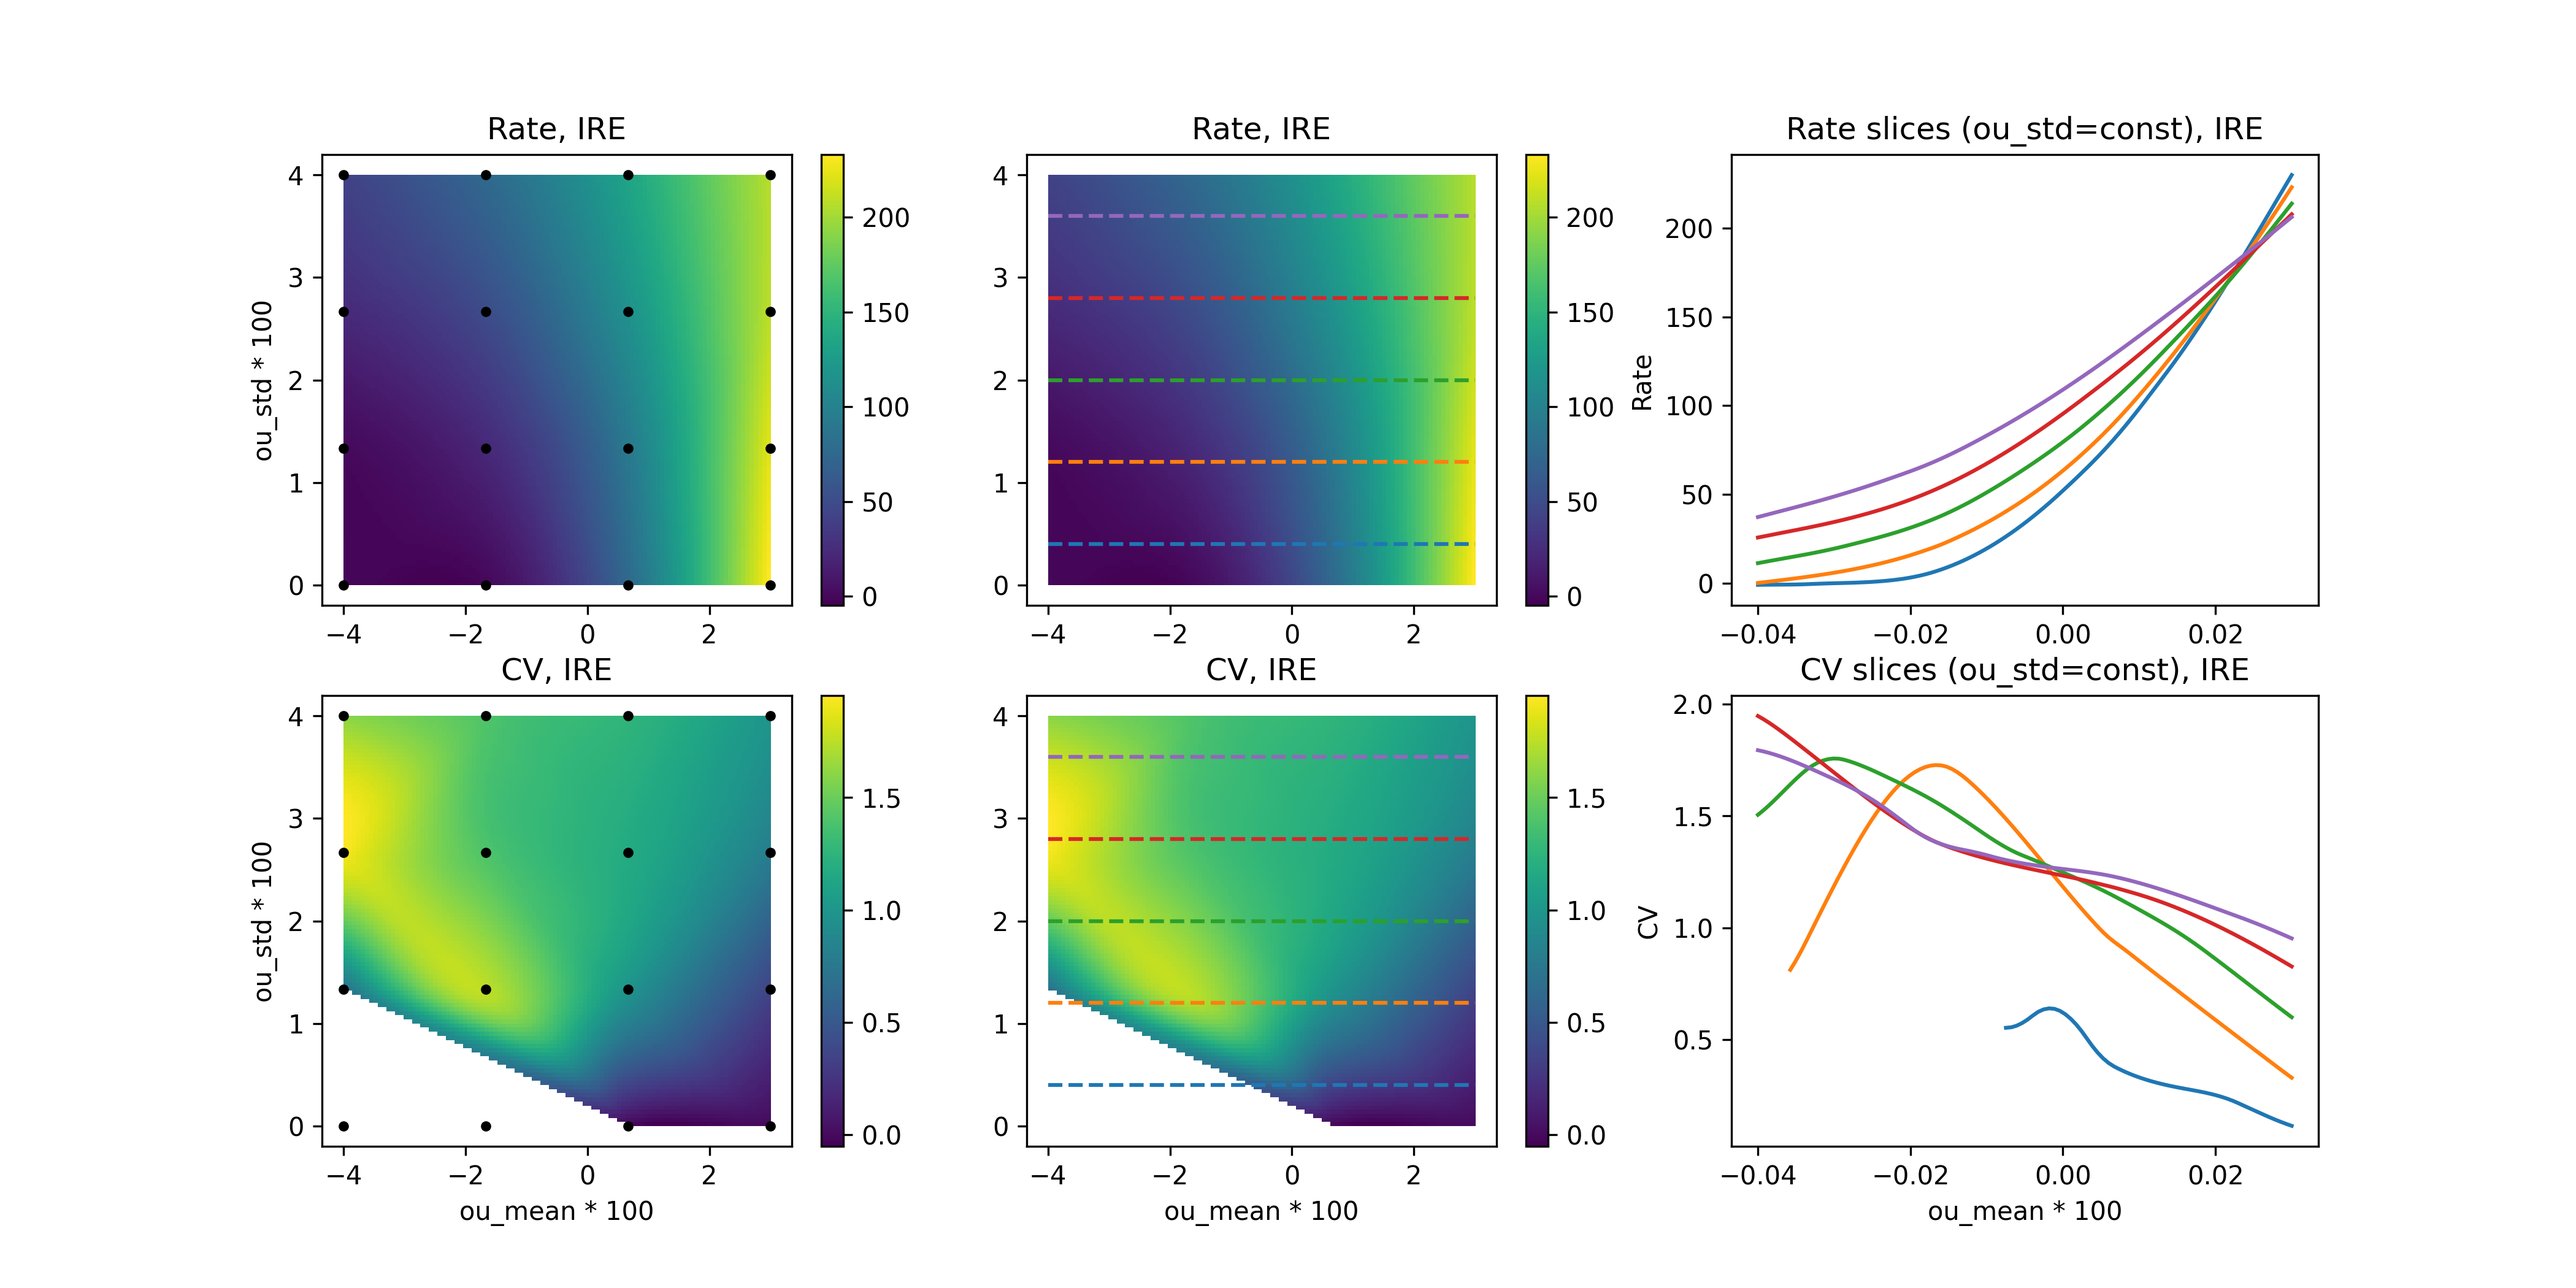
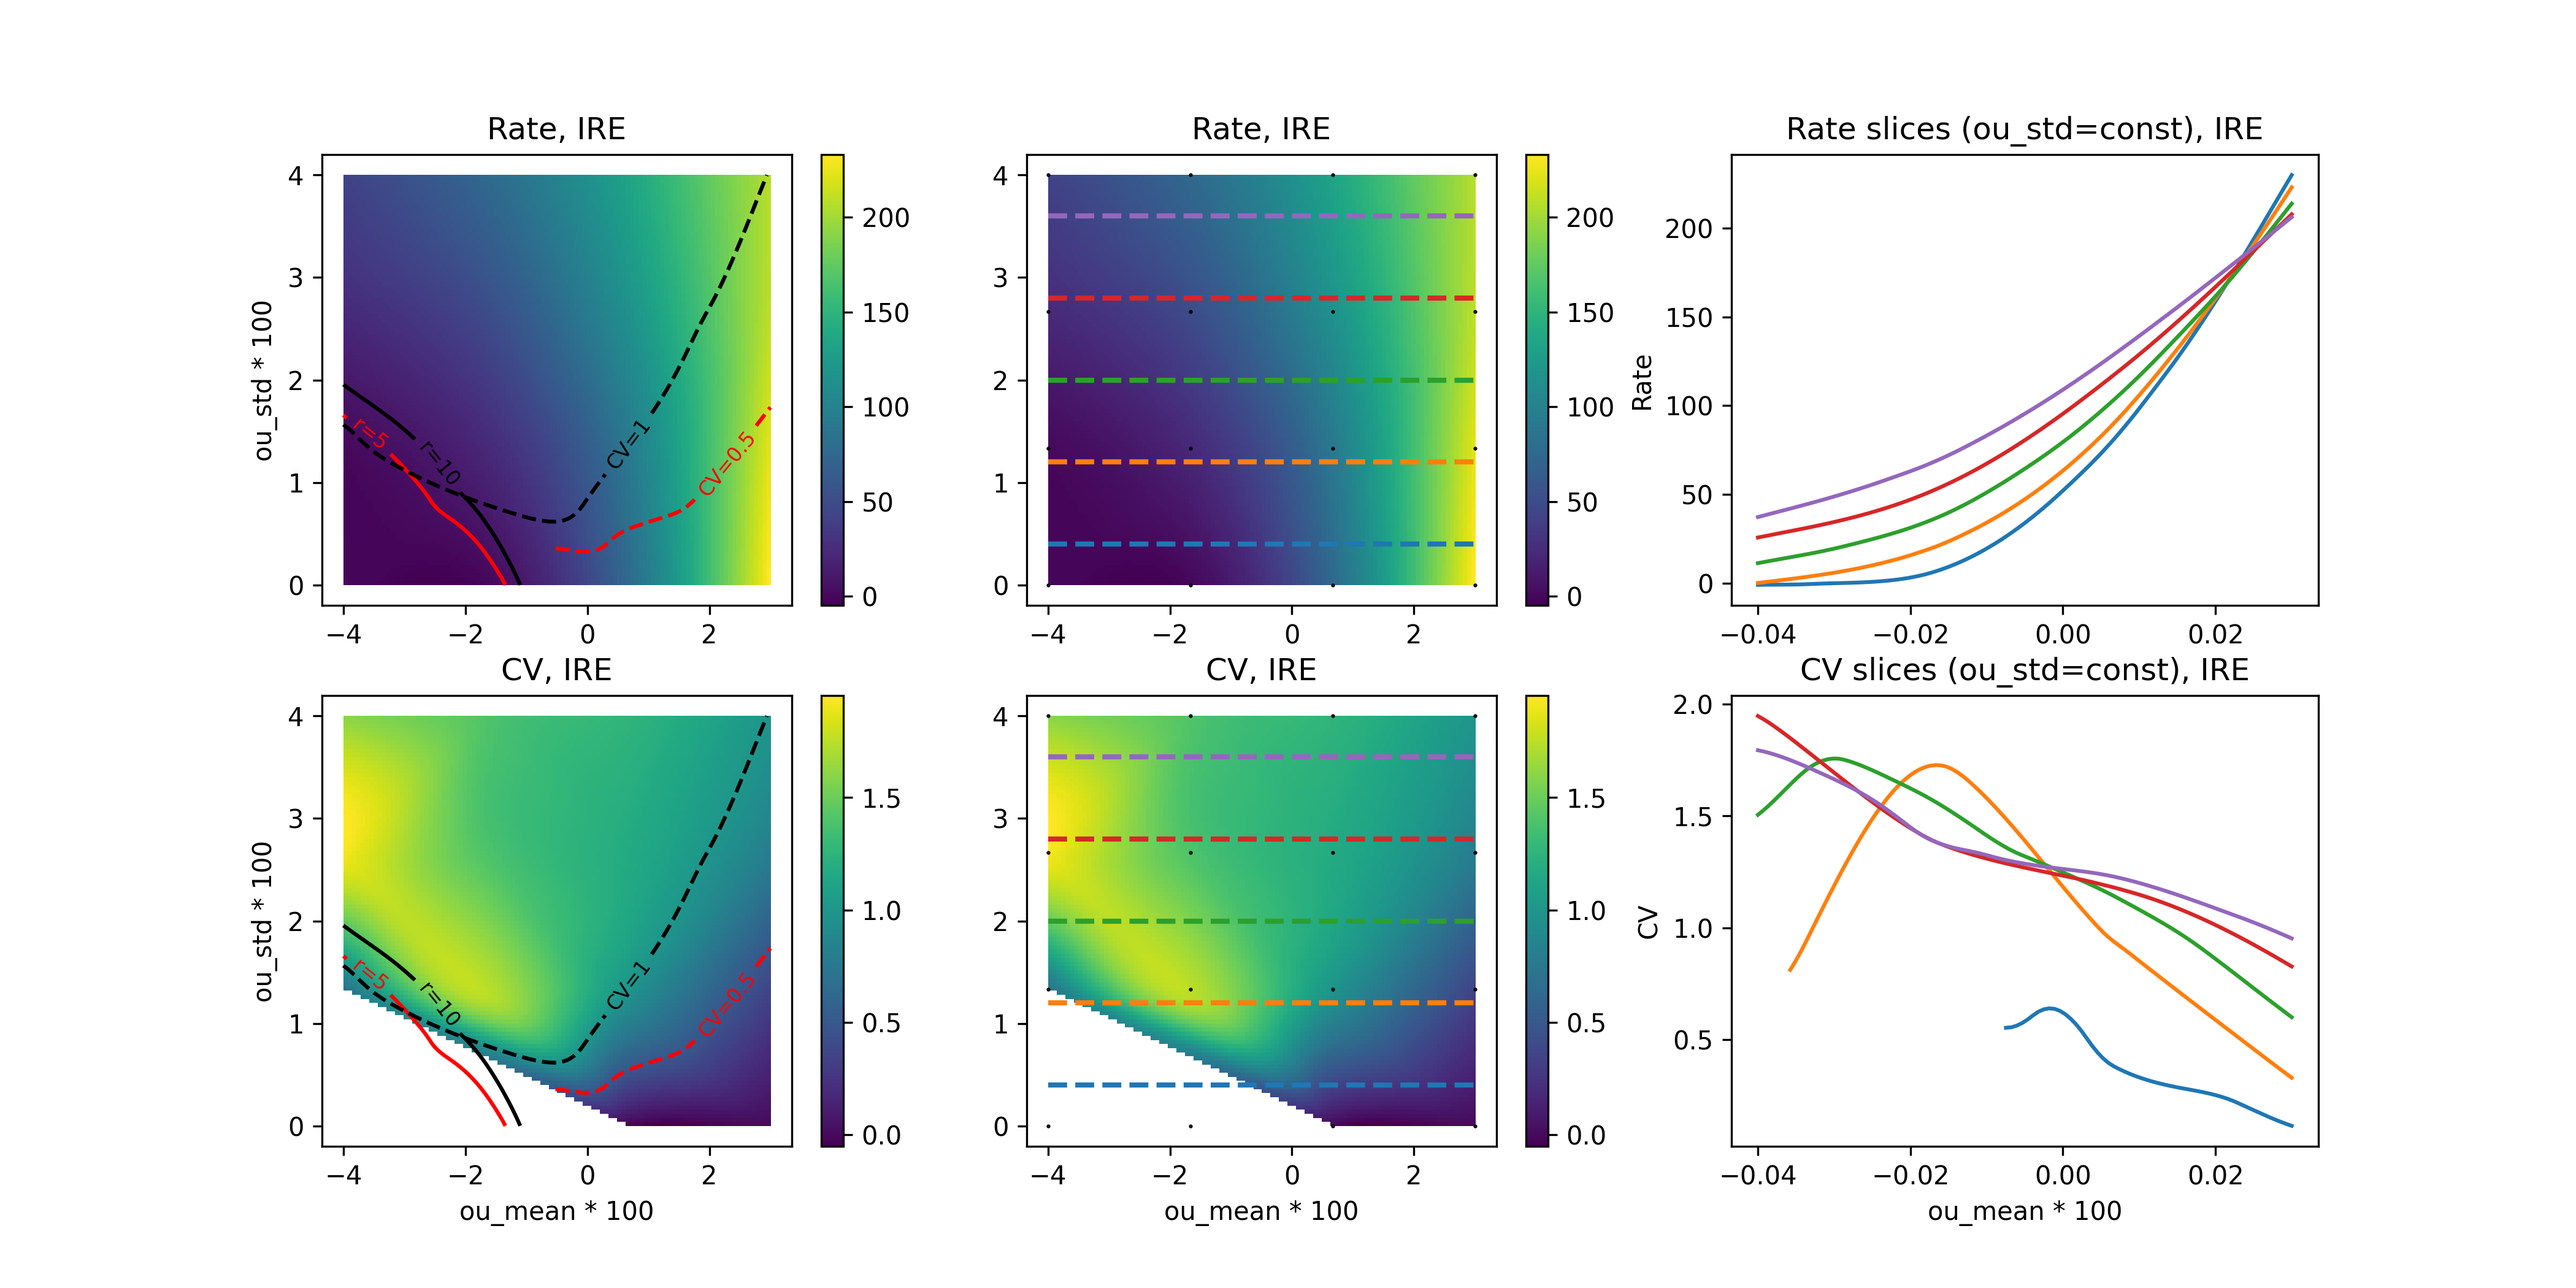
Implement plotting of voltage metric matrices

diff --git a/analysis/ou_tuning/plot_voltage_metrics_grid.py b/analysis/ou_tuning/plot_voltage_metrics_grid.py
@@ -1,25 +1,26 @@
 import os
 from pathlib import Path
+from typing import List, Tuple
 
 import matplotlib.pyplot as plt
 import numpy as np
 
-from read_batch_res_table import read_batch_res_table
+from read_batch_voltages_table import read_batch_voltages_table
 from xr_utils import interpolate_to_xr, plot_xr, plot_xr_contour
 
 
-def plot_rate_cv_grid(
+def plot_voltage_metrics_grid(
         dirpath_exp: str | Path,
+        metrics_vis: List[str | Tuple[str, callable]],
         npoints: int = 100,   # grid resolution
         nslices: int = 5,   # num. ou_std==const slices to plot
         show_grid: bool = True,
-        show_r_cv_contours: bool = False,
-        dirname_out: str = 'plots'
+        dirname_out: str = 'plots_voltage'
         ) -> None:
 
     # Read and parse batch result table
-    fpath_in = dirpath_exp / 'batch_result.csv'
-    ou_mean, ou_std, data = read_batch_res_table(fpath_in)
+    fpath_in = dirpath_exp / 'batch_voltages.csv'
+    ou_mean, ou_std, data = read_batch_voltages_table(fpath_in)
     data_coords = list(zip(ou_mean, ou_std))
     pop_names = list(data.keys())
 
@@ -31,10 +32,22 @@ def plot_rate_cv_grid(
     data_interp = {}
     for pop in pop_names:
         data_interp[pop] = {}
-        for data_type in ('Rate', 'CV'):
+        for data_type in metrics_vis:
+            
+            if isinstance(data_type, tuple):
+                # If data_type is a function, apply it to the data
+                if not callable(data_type[1]):
+                    raise ValueError(f'Expected a callable for {data_type[1]}')
+                data_values = data_type[1](data[pop])
+                data_type_title = data_type[0]
+            else:
+                # Otherwise, treat it as a column name
+                data_values = data[pop][data_type]
+                data_type_title = data_type
+
             data_interp[pop][data_type] = interpolate_to_xr(
                 data_coords,
-                data[pop][data_type],
+                data_values,
                 ou_mean_range, ou_std_range,
                 nx=npoints, ny=npoints,
                 coord_names=('ou_mean', 'ou_std')
@@ -54,33 +67,27 @@ def plot_rate_cv_grid(
     margin = 0.05
 
     nx = 3
-    ny = 2
+    ny = len(metrics_vis)
 
     def plot_pop_data(pop: str):
 
-        for n, data_type in enumerate(['Rate', 'CV']):
+        for n, data_type in enumerate(metrics_vis):
             Z = data_interp[pop][data_type]
+
+            if isinstance(data_type, tuple):
+                data_type_title = data_type[0]
+            else:
+                data_type_title = data_type
 
             # 2D image with rate/CV contours 
             plt.subplot(2, 3, n * nx + 1)
             plot_xr(Z, xmult=xmult, ymult=xmult, margin=margin)
-            if show_r_cv_contours:
-                plot_xr_contour(
-                    data_interp[pop]['Rate'], 'r', levels=[5, 10],
-                    colors=['r', 'k'], style='-',
-                    xmult=xmult, ymult=xmult
-                )
-                plot_xr_contour(
-                    data_interp[pop]['CV'], 'CV', levels=[0.5, 1],
-                    colors=['r', 'k'], style='--',
-                    xmult=xmult, ymult=xmult
-                )
-            plt.title(f'{data_type}, {pop}')
+            plt.title(f'{data_type_title}, {pop}')
             if n == ny - 1:
                 plt.xlabel(f'ou_mean * {xmult}')
             plt.ylabel(f'ou_std * {ymult}')
 
-            # 2D image with horiontal slicing lines and grid points
+            # 2D image with horizontal slicing lines and grid points
             plt.subplot(2, 3, n * nx + 2)
             plot_xr(Z, xmult=xmult, ymult=xmult, margin=margin)
             if show_grid:
@@ -89,7 +96,7 @@ def plot_rate_cv_grid(
                 plt.plot([ou_mean.min(), ou_mean.max()],
                         [ou_std_slice * ymult] * 2,
                         '--', linewidth=2)
-            plt.title(f'{data_type}, {pop}')
+            plt.title(f'{data_type_title}, {pop}')
             if n == ny - 1:
                 plt.xlabel(f'ou_mean * {xmult}')
             
@@ -98,16 +105,16 @@ def plot_rate_cv_grid(
             for ou_std_slice in ou_std_slices:
                 zz = Z.sel(ou_std=ou_std_slice, method='nearest')
                 plt.plot(zz.coords['ou_mean'], zz.values)
-            plt.title(f'{data_type} slices (ou_std=const), {pop}')
+            #plt.title(f'{data_type_title} slices (ou_std=const), {pop}')
+            plt.title(f'Slices (ou_std=const), {pop}')
             if n == ny - 1:
                 plt.xlabel(f'ou_mean * {xmult}')
-            plt.ylabel(data_type)
+            plt.ylabel(data_type_title)
 
     # Folder for saving the figures
     dirpath_out = dirpath_exp / dirname_out
     os.makedirs(dirpath_out, exist_ok=True)
 
-    #plt.ion()
     plt.figure(figsize=(14, 7))
 
     for pop in pop_names:
@@ -119,18 +126,23 @@ def plot_rate_cv_grid(
         fpath_fig = dirpath_out / f'{pop}.png'
         plt.savefig(fpath_fig, dpi=300)
 
-    #plt.show()
-    #input('Press any key...')
-
 
 if __name__ == '__main__':
-
     # Repo root (two levels above this script)
     dirpath_base = Path(__file__).resolve().parents[2]
 
-    # Experiment name
-    exp_name = 'batch_ougrid_ire_4x4'
-    dirpath_exp = dirpath_base / 'exp_results' / exp_name
+    # Experiment config and result folders
+    dirpath_exp = dirpath_base / 'exp_results' / 'batch_ougrid_ire_4x4'
 
-    plot_rate_cv_grid(dirpath_exp, npoints=100, nslices=5,
-                      show_r_cv_contours=True)
+    def V_ratio(x):
+        return x['V_num_-70_-50']
+
+    metrics_vis = [
+        'V_median_-200_0',
+        (
+            'V_(-50_0)_(-70_-50)_num_ratio',
+            lambda x: x['V_num_-50_0'] / x['V_num_-70_-50']
+        )
+    ]
+
+    plot_voltage_metrics_grid(dirpath_exp, metrics_vis, npoints=100, nslices=5)

diff --git a/analysis/ou_tuning/xr_utils.py b/analysis/ou_tuning/xr_utils.py
@@ -1,0 +1,91 @@
+from typing import List, Tuple
+
+import matplotlib.pyplot as plt
+import numpy as np
+from scipy.interpolate import griddata
+import xarray as xr
+
+
+def plot_xr(Z: xr.DataArray, vmin=None, vmax=None,
+            show_ax_names=False, colorbar=True,
+            xmult=1, ymult=1, margin=0):
+    """Plot 2D xarray. """
+
+    xx = Z.coords[Z.dims[1]] * xmult
+    yy = Z.coords[Z.dims[0]] * ymult
+    xmin, xmax, ymin, ymax = xx.min(), xx.max(), yy.min(), yy.max()
+
+    extent = (xmin, xmax, ymin, ymax)
+    plt.imshow(Z, origin='lower', aspect='auto', extent=extent,
+               vmin=vmin, vmax=vmax)
+    
+    xmargin = (xmax - xmin) * margin
+    ymargin = (ymax - ymin) * margin
+    plt.xlim(xmin - xmargin, xmax + xmargin)
+    plt.ylim(ymin - ymargin, ymax + ymargin)
+    
+    if show_ax_names:
+        plt.xlabel(f'{Z.dims[1]} * {xmult}')
+        plt.ylabel(f'{Z.dims[0]} * {ymult}')
+    
+    if colorbar:
+        plt.colorbar()
+
+def plot_xr_contour(
+        Z: xr.DataArray,
+        name: str,
+        levels: List[float],
+        colors: List[str] | None = None,
+        style: str = '-',
+        xmult: int = 1,
+        ymult: int = 1
+        ) -> None:
+
+    def fmt_func(x):
+        if x == int(x): return f'{name}={int(x)}'
+        else: return f'{name}={x:.1f}'
+    
+    x = Z.coords[Z.dims[1]] * xmult
+    y = Z.coords[Z.dims[0]] * ymult
+
+    contours = plt.contour(
+        x, y, Z.values, linestyles=style,
+        levels=levels, colors=colors
+    )
+    plt.clabel(contours, inline=True, fontsize=8, 
+               fmt=fmt_func, rightside_up=True)
+
+def interpolate_to_xr(
+        data_coords: List[Tuple[float, float]],  # (x, y),
+        data_values: np.ndarray,
+        xrange: Tuple[float, float], 
+        yrange: Tuple[float, float],
+        nx: int = 50,
+        ny: int = 50,
+        coord_names: Tuple[str, str] = ('x', 'y'),
+        method: str = 'cubic'
+        ) -> xr.DataArray:
+    """Create 2D xarray by interpolating a list of data points. """
+
+    data_coords = np.array(data_coords)
+    mask = ~np.isnan(data_values)
+    data_values = data_values[mask]
+    xx_in = [c[0] for c in data_coords[mask]]
+    yy_in = [c[1] for c in data_coords[mask]]
+
+    xx_out = np.linspace(xrange[0], xrange[1], nx)
+    yy_out = np.linspace(yrange[0], yrange[1], ny)
+    y_grid, x_grid = np.meshgrid(yy_out, xx_out, indexing='ij')
+    
+    values_interp = griddata(
+        (yy_in, xx_in),        # known coordinates
+        data_values,           # known values
+        (y_grid, x_grid),      # target grid
+        method=method
+    )
+    return xr.DataArray(
+        values_interp,
+        dims=(coord_names[1], coord_names[0]),
+        coords=[(coord_names[1], yy_out),
+                (coord_names[0], xx_out)]
+    )

diff --git a/analysis/ou_tuning/read_batch_voltages_table.py b/analysis/ou_tuning/read_batch_voltages_table.py
@@ -1,0 +1,44 @@
+import os
+from pathlib import Path
+from typing import Dict, Tuple
+
+import numpy as np
+import pandas as pd
+
+
+def read_batch_voltages_table(
+        fpath_in: str | Path
+        ) -> Tuple[np.ndarray, np.ndarray, Dict[str, Dict[str, np.ndarray]]]:
+    # Returns: ou_mean, ou_std, {pop: {metric: values}}
+
+    # Read the CSV file into a pandas DataFrame
+    fpath_in = Path(fpath_in)
+    df = pd.read_csv(fpath_in)
+
+    # Create a list of (ou_mean, ou_std) tuples
+    ou_mean = df['ou_mean'].to_numpy()
+    ou_std = df['ou_std'].to_numpy()
+
+    # Extract pop_names
+    pop_names = list({col.split('_')[0] for col in df.columns if col not in {'ou_mean', 'ou_std'}})
+
+    # Read pop rates and Cv's from df
+    data = {}
+    for pop in pop_names:
+        metrics = [col[len(pop) + 1:] for col in df.columns if col.startswith(f'{pop}_')]
+        data[pop] = {metric: df[f'{pop}_{metric}'].to_numpy() for metric in metrics}
+    
+    return ou_mean, ou_std, data
+
+
+if __name__ == '__main__':
+
+    dirpath_exp = Path(
+        r'D:\WORK\Salvador\repo\A1_OUinp\exp_results\batch_ougrid_ire_4x4'
+    )
+    fpath_in = dirpath_exp / 'batch_voltages.csv'
+
+    ou_mean, ou_std, data = read_batch_voltages_table(fpath_in)
+
+    from pprint import pprint
+    pprint(data)
